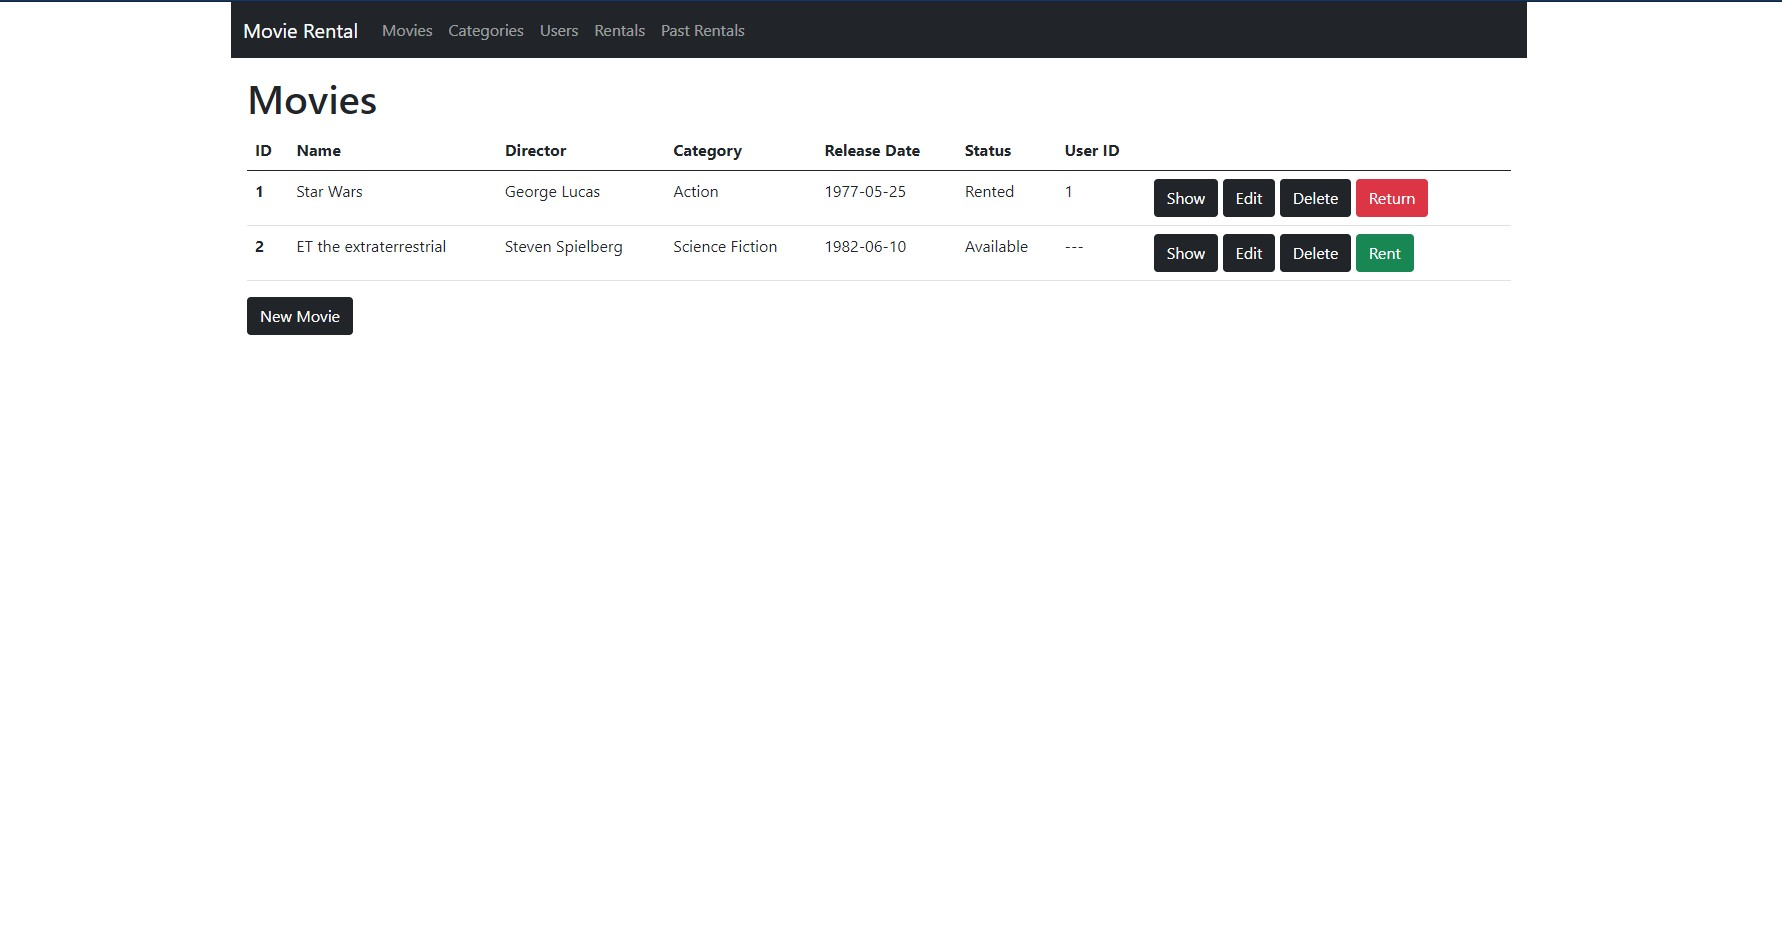
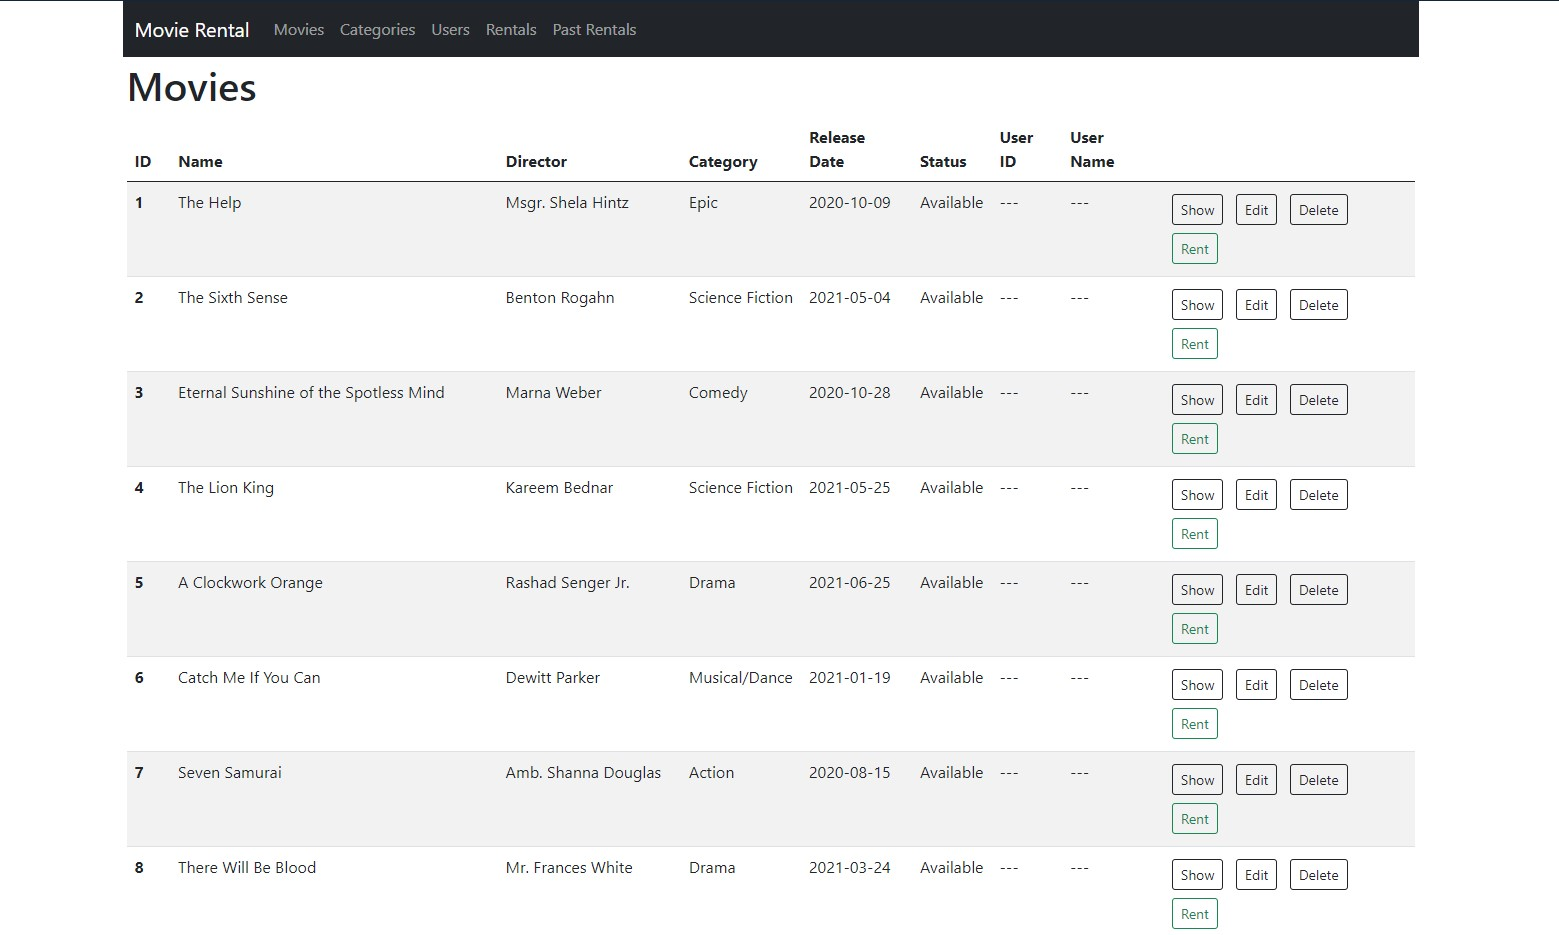
Modificated seeds.rb to seed data for models Category, User, Movie and Rental. Small styling of Movie Index View

diff --git a/db/seeds.rb b/db/seeds.rb
@@ -5,3 +5,82 @@
 #
 #   movies = Movie.create([{ name: 'Star Wars' }, { name: 'Lord of the Rings' }])
 #   Character.create(name: 'Luke', movie: movies.first)
+
+require 'faker'
+
+categories = [
+  {
+    name: "Action",
+    description: "Action films usually include high energy, big-budget physical stunts and chases, possibly with rescues, battles, fights, escapes, destructive crises (floods, explosions, natural disasters, fires, etc.), non-stop motion, spectacular rhythm and pacing, and adventurous, often two-dimensional 'good-guy' heroes (or recently, heroines) battling 'bad guys' - all designed for pure audience escapism."
+  },
+  {
+    name: "Adventure",
+    description: "Adventure films are usually exciting stories, with new experiences or exotic locales, very similar to or often paired with the action film genre. They can include traditional swashbucklers or pirate films, serialized films, and historical spectacles (similar to the epics film genre), searches or expeditions for lost continents, jungle and desert epics, treasure hunts, disaster films, or searches for the unknown."
+  },
+  {
+    name: "Comedy",
+    description: "Comedies are light-hearted plots consistently and deliberately designed to amuse and provoke laughter (with one-liners, jokes, etc.) by exaggerating the situation, the language, action, relationships and characters."
+  },
+  {
+    name: "Crime",
+    description: "Crime films are developed around the sinister actions of criminals or mobsters, particularly bankrobbers, underworld figures, or ruthless hoodlums who operate outside the law, stealing and murdering their way through life. The criminals or gangsters are often counteracted by a detective-protagonist with a who-dun-it plot. Hard-boiled detective films reached their peak during the 40s and 50s (classic film noir), although have continued to the present day. Therefore, crime and gangster films are often categorized as film noir or detective-mystery films, and sometimes as courtroom/crime legal thrillers - because of underlying similarities between these cinematic forms. This category also includes various 'serial killer' films."
+  },
+  {
+    name: "Drama",
+    description: "Dramas are serious, plot-driven presentations, portraying realistic characters, settings, life situations, and stories involving intense character development and interaction. Usually, they are not focused on special-effects, comedy, or action"
+  },
+  {
+    name: "Epic",
+    description: "Epics include costume dramas, historical dramas, war films, medieval romps, or 'period pictures' that often cover a large expanse of time set against a vast, panoramic backdrop. Epics often share elements of the elaborate adventure films genre. Epics take an historical or imagined event, mythic, legendary, or heroic figure, and add an extravagant setting or period, lavish costumes, and accompany everything with grandeur and spectacle, dramatic scope, high production values, and a sweeping musical score."
+  },
+  {
+    name: "Horror", 
+    description: "Horror films are designed to frighten and to invoke our hidden worst fears, often in a terrifying, shocking finale, while captivating and entertaining us at the same time in a cathartic experience. Horror films feature a wide range of styles, from the earliest silent Nosferatu classic, to today's CGI monsters and deranged humans. They are often combined with science fiction when the menace or monster is related to a corruption of technology, or when Earth is threatened by aliens."
+  },
+  {
+    name: "Musical/Dance",
+    description: "Musical/dance films are cinematic forms that emphasize full-scale scores or song and dance routines in a significant way (usually with a musical or dance performance integrated as part of the film narrative), or they are films that are centered on combinations of music, dance, song or choreography."
+  },
+  {
+    name: "Science Fiction",
+    description: "Sci-fi films are often quasi-scientific, visionary and imaginative - complete with heroes, aliens, distant planets, impossible quests, improbable settings, fantastic places, great dark and shadowy villains, futuristic technology, unknown and unknowable forces, and extraordinary monsters ('things or creatures from space'), either created by mad scientists or by nuclear havoc."
+  },
+  {
+    name: "War",
+    description: "Sci-fi films are often quasi-scientific, visionary and imaginative - complete with heroes, aliens, distant planets, impossible quests, improbable settings, fantastic places, great dark and shadowy villains, futuristic technology, unknown and unknowable forces, and extraordinary monsters ('things or creatures from space'), either created by mad scientists or by nuclear havoc."
+  },
+  {
+    name: "Western",
+    description: "Westerns are the major defining genre of the American film industry - a eulogy to the early days of the expansive American frontier. They are one of the oldest, most enduring genres with very recognizable plots, elements, and characters (six-guns, horses, dusty towns and trails, cowboys, Indians, etc.)."
+  },
+]
+
+puts "Start seeding categories"
+categories.each do |category|
+  Category.create(name: category[:name], description: category[:description])
+end
+puts "Finish seeding categories"
+
+puts "Start seeding users"
+30.times do
+  name = Faker::Name.name
+  email = Faker::Internet.email(name: name)
+  User.create(name: name, email: email)
+end
+puts "Finish seeding users"
+
+puts "Start seeding movies"
+category_ids = Category.pluck(:id)
+100.times do
+  name = Faker::Movie.title
+  director = Faker::Name.name
+  category_id = category_ids.sample
+  release_date = Faker::Date.backward
+  Movie.create(name:name, director: director, category_id: category_id, release_date: release_date)
+end
+puts "Finish seeding movies"
+
+puts "Start seeding rentals"
+user_ids = User.pluck(:id)
+Movie.all.each { |movie| Rental.create(movie_id: movie.id, user_id: user_ids.sample) if [false, true].sample }
+puts "Finish seeding rentals"

diff --git a/app/models/movie.rb b/app/models/movie.rb
@@ -2,7 +2,7 @@ class Movie < ApplicationRecord
   belongs_to :category
   
   has_many :rentals, dependent: :destroy
-  has_one :users, through: :rentals
+  has_many :users, through: :rentals
   has_many :past_rentals, dependent: :destroy
 
   
